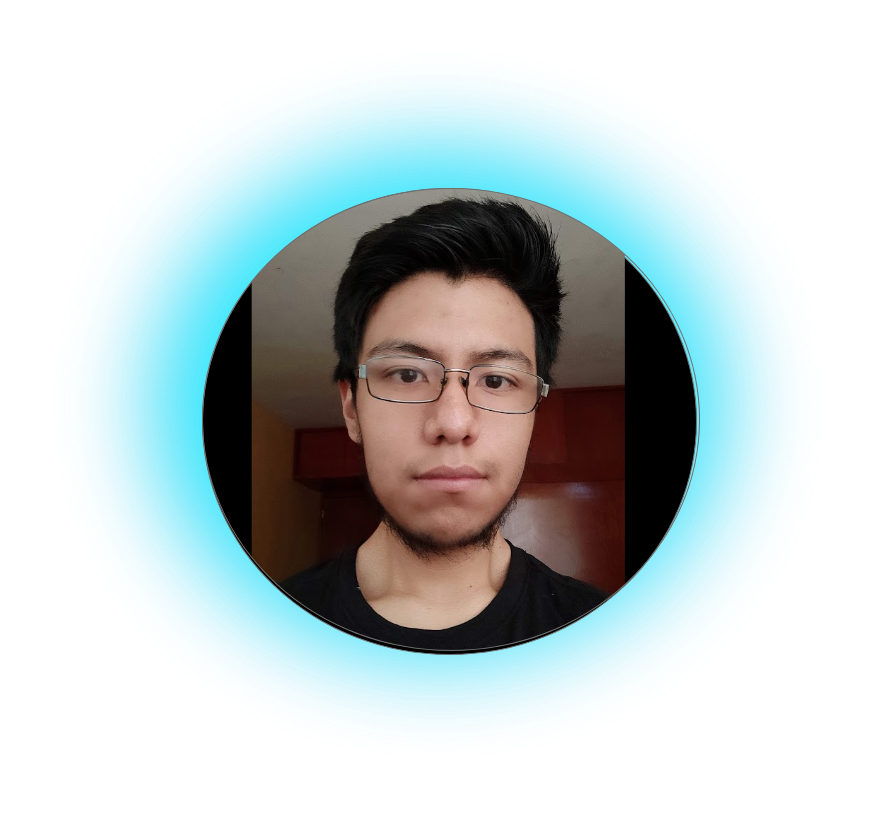
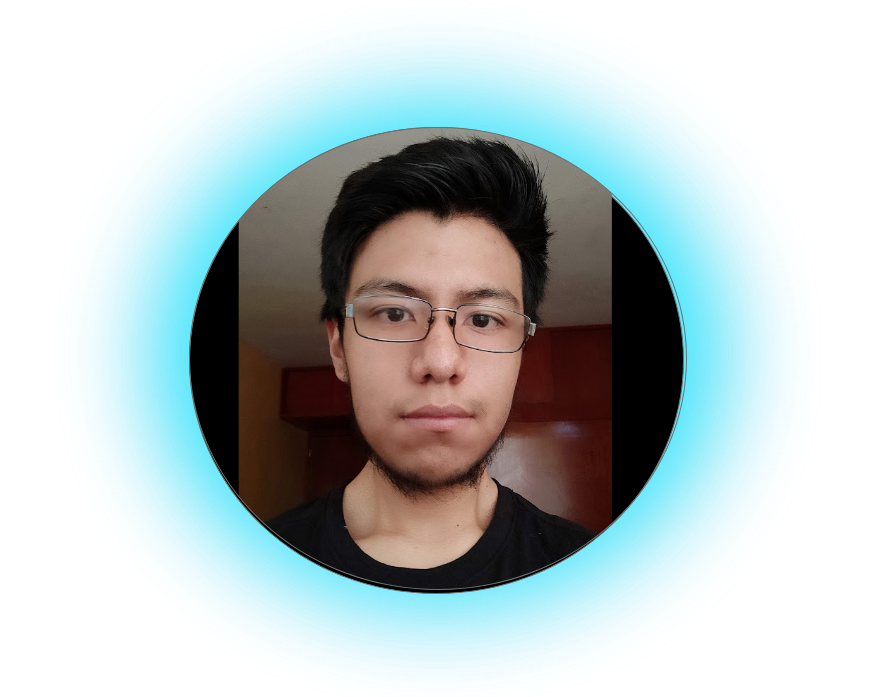
se ajusto la imagen de la descripcion y se realizo una animacion en el texto que es el simobolo de saludo

Changed region(s): [[0.1847, 0.0603, 0.8312, 0.9641]]

diff --git a/Portafolio/estilos/descripcion_estilos.css b/Portafolio/estilos/descripcion_estilos.css
@@ -1,0 +1,40 @@
+h1{
+    color: white;
+    font-size:57px;
+}
+h2{
+    color: white;
+    font-size:41px;
+}
+.Caja_descripcion{   
+display: flex;
+flex-flow: row wrap;
+justify-content: space-evenly;
+aling-cotent: center;
+height:50px;
+width: 100%;
+margin: 0 auto;
+}
+.responsive{
+    float: left;
+    width: 100%;
+    height: auto;
+    aling-items: center;
+}
+.waving-hand {
+animation-name: wave-animation;
+animation-duration: 2.5s;
+animation-iteration-count: infinite;
+transform-origin: 70% 70%;
+display: inline-block;
+}
+@keyframes wave-animation {
+0% { transform: rotate( 0.0deg) }
+15% { transform: rotate(18.0deg) }  
+30% { transform: rotate(-8.0deg) }
+40% { transform: rotate(18.0deg) }
+50% { transform: rotate(-4.0deg) }
+60% { transform: rotate(10.0deg) }
+70% { transform: rotate( 0.0deg) }  
+100% { transform: rotate( 0.0deg) }
+}

diff --git a/Portafolio/descripcion.php b/Portafolio/descripcion.php
@@ -7,25 +7,50 @@
         color: white;
         font-size:41px;
     }
-    .Caja_descripcion{    
-    margin: 0 auto;
-    width: 90%;
+    .Caja_descripcion{   
     display: flex;
     flex-flow: row wrap;
-    justify-content: center;
-    aling-content: center;
+    justify-content: space-evenly;
+    aling-cotent: center;
+    height:50px;
+    width: 100%;
+    margin: 0 auto;
     }
-    .descripcion{
-        height:10px;
+
+    .responsive{
+        float: left;
+        width: 100%;
+        height: auto;
+        aling-items: center;
     }
-    
+    .waving-hand {
+  animation-name: wave-animation;
+  animation-duration: 2.5s;
+  animation-iteration-count: infinite;
+  transform-origin: 70% 70%;
+  display: inline-block;
+}
+
+@keyframes wave-animation {
+  0% { transform: rotate( 0.0deg) }
+  15% { transform: rotate(18.0deg) }  /* The following five values can be played with to make the waving more or less extreme */
+  30% { transform: rotate(-8.0deg) }
+  40% { transform: rotate(18.0deg) }
+  50% { transform: rotate(-4.0deg) }
+  60% { transform: rotate(10.0deg) }
+  70% { transform: rotate( 0.0deg) }  /* Reset for the last half to pause */
+ 100% { transform: rotate( 0.0deg) }
+}
 </style>
 <section class="Caja_descripcion">
     <div class="descripcion">
-<h1>Hola a todos, Soy Ricardo <img src="img/👋.png" alt=""> </h1>
+<h1><br>Hola a todos, Soy Ricardo
+<span class="waving-hand">👋</span>
+ </h1>
 <h2>Soy un apasionado de la programacion, <br>con experiencia en el desarrollo web </h1>
     </div>
     <div class="descripcion">
-<img src="img/Grupo 20.png" alt="">        
+        
+<img class="responsive"  src="img/Grupo 20.png" alt=""  >        
     </div>
 </section>
